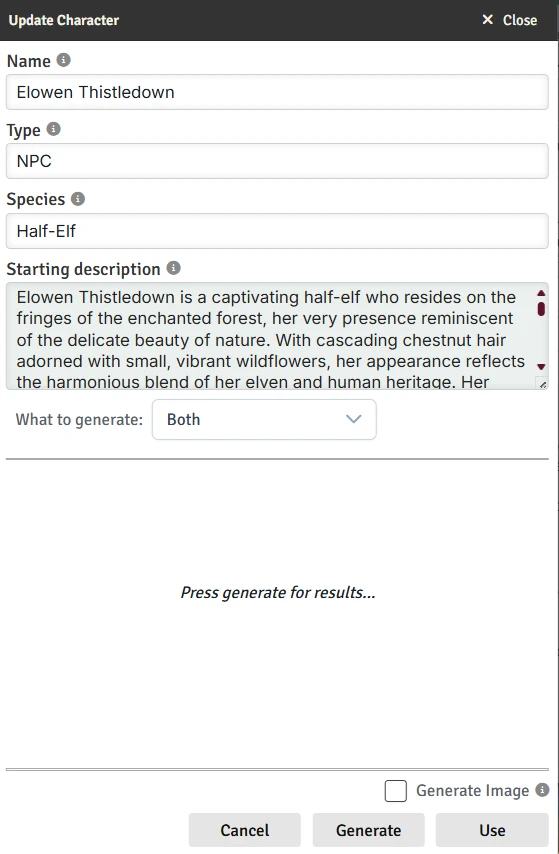
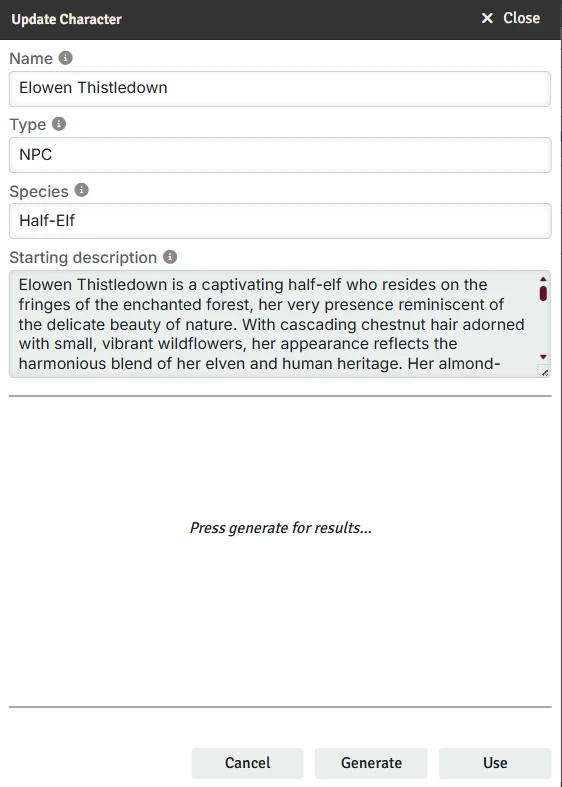
doc update

diff --git a/docs/reference/world-building/update-entry.md b/docs/reference/world-building/update-entry.md
@@ -20,6 +20,7 @@ The Update Entry dialog is where you can update an existing [^Entry] using AI.
 There are several fields you can (optionally) fill in:
 - **Name** - The name of the Entry.  This is required to complete the Entry, but you can leave it blank, and it will be generated for you along with the description.
 - **Type** - The [^Type] of Entry. This text box works the same as the Type field on [Entries](/reference/world-building/content/entry/) with respect to autocomplete and adding new Types.
+- **Species** ([^Character] only) - The spcies of the Character.  This is optional.  Leaving it blank will pick a random one from your [configured](/reference/configuration/species) Species list.  You can also put a new species name here and it will be sent to the AI, though it won't add it to your list.  Most useful if you want to include the species name in the description but it's not one of your standard ones.
 - **Parent** ([^Location], [^Organization] only) - The parent of the Entry.  This is optional.  Typing in the box will search for matching Locations/Organizations.
 - **Description** - The description of the Entry.  This is optional, but highly recommended if you plan to generate an image or description ([Advanced Feature]).  The description can be a very brief description or just a list of characteristics.  Any information contained in the description will be included in the generated version (if it fits).
 
@@ -29,30 +30,10 @@ Once you fill the information in the fields, hit "Generate" and the AI will crea
 
 When you have what you want, hit "Use" and the resulting values will be updated on the Entry.
 
-## Options {#options}
-There are 2-3 options below the description field:
-
-### What to generate {#description-styles}
-You can generate a long description, roleplaying notes, or both.  
-
-If you are using roleplaying notes (see [Module Settings]), you will have the choice to populate the description, the notes, or both. If you have that field turned off, you will instead have the option to do long vs. short description.  Note that a short description is the same text as the roleplaying notes would have been - it's just used in place of the other description.  The number of paragraphs generated for long descriptions, can be set in the [Module Settings].
-
-For your full description, you can either get a more "narrative" or "story-like" description (in the number of paragraphs you set with the slider in [Module Settings]) or you can get a "RPG-Style" description by checking that box in [Modules Settings].
-
-Sample roleplaying notes/short description:
-![Example short description](/assets/images/generate-roleplaying-notes.webp)
-
-
-Sample long description (this is a 1-paragraph one):
-![Example long description](/assets/images/generate-long-description.webp)
-
-Sample RPG-Style description:
-![Example RPG-Style description](/assets/images/generate-rpg-style.webp)
-
-### Generate image
-When checked, after you finalize and hit "Use", the AI will [generate an image](/reference/world-building/image-generation) for the entry.
-
-### Add to Current Session
+## Add to Current Session
 This option is only available if you are in [^Play Mode], and only for Characters or Locations.  When checked, this Entry will be added to the [^Current Session] after you hit "Use".  Characters are added as [NPCs](/reference/campaign-mgt/content/session/npcs), while Locations are added as [Locations](/reference/campaign-mgt/content/session/locations).  The default value of this checkbox is controlled by the "Default 'Add to current session'" [Module Setting].
 
+
+## Generating other fields
+This dialog only populates the default description field.  To AI-generate other fields, [configure them](/reference/configuration/custom-fields#ai-configuration-dialog) for generation and then use the generate buttons next to the field names.
 

diff --git a/docs/reference/configuration/custom-fields.md b/docs/reference/configuration/custom-fields.md
@@ -53,7 +53,7 @@ Click the **Add** button to create a new custom field. Each field has the follow
 - **AI Template** - For Editor fields, click the brain icon to configure whether and how the field can be AI-generated [[Advanced Feature]]
 - **Delete** - Remove a field with the trash icon
 
-## AI Configuration Dialog [[Advanced Feature]]
+## AI Configuration Dialog [[Advanced Feature]] {#ai-configuration-dialog}
 
 ![AI Configuration Dialog](/assets/images/custom-fields-ai.webp)
 

diff --git a/docs/reference/world-building/content/entry/generate.md b/docs/reference/world-building/content/entry/generate.md
@@ -15,7 +15,7 @@ Clicking the generate button gives you the option to generate either:
 - A [description](#description) for the entry (which includes a name and species, if you don't want to specify)
 - An [image](#image) for the entry
 
-## Generate Description {#description}
+## Generate Name and Description {#description}
 Selecting to generate a description will open the [Update dialog](/reference/world-building/update-entry).
 
 ## Generate Image {#image}
